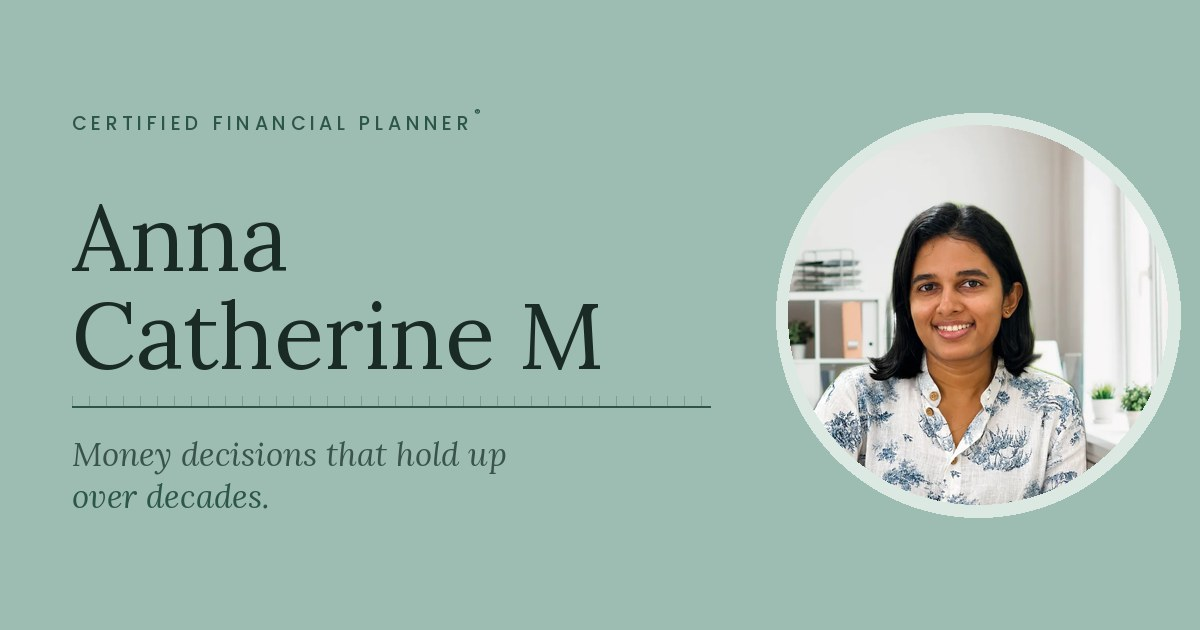
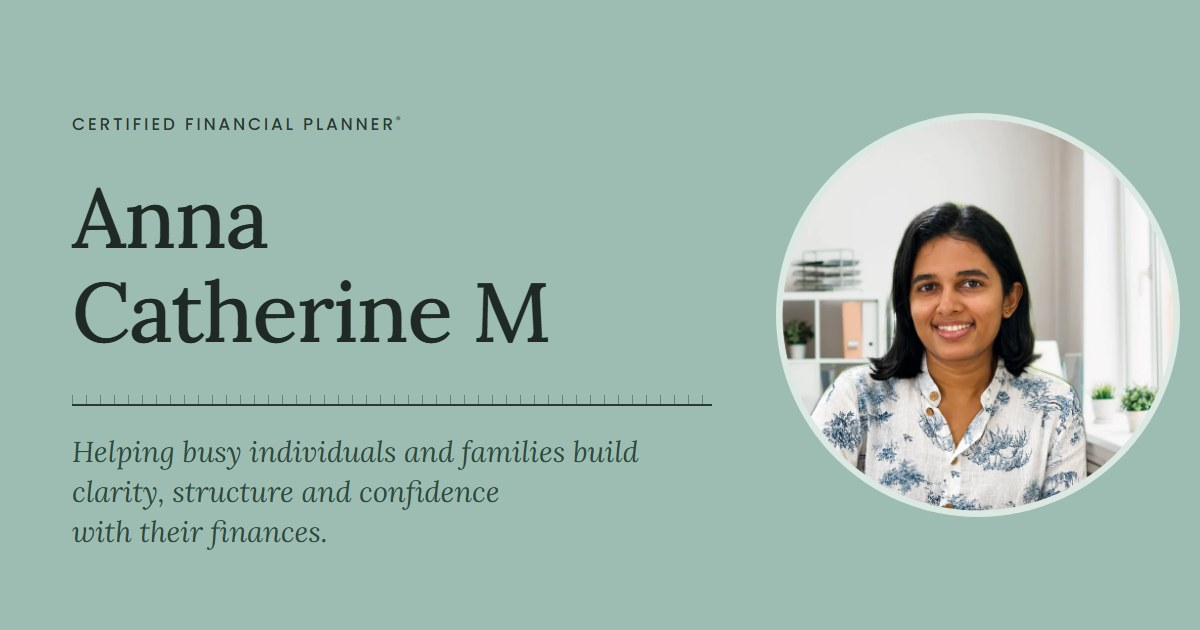
Share card and descriptions use the new tagline

diff --git a/index.html b/index.html
@@ -13,17 +13,17 @@
 <meta name="geo.placename" content="Kochi, Kerala">
 <meta property="og:locale" content="en_IN">
 <meta property="og:title" content="Anna Catherine M, Certified Financial Planner in Kochi">
-<meta property="og:description" content="Certified Financial Planner in Kochi, Kerala, working with salaried professionals and families. Financial planning for the life you want to live.">
+<meta property="og:description" content="Certified Financial Planner in Kochi, Kerala. Helping busy individuals and families build clarity, structure and confidence with their finances.">
 <meta property="og:type" content="profile">
 <meta property="og:url" content="https://annacatherinem.in/">
-<meta property="og:image" content="https://annacatherinem.in/preview-card.jpg?v=3">
+<meta property="og:image" content="https://annacatherinem.in/preview-card.jpg?v=4">
 <meta property="og:image:width" content="1200">
 <meta property="og:image:height" content="630">
 <meta property="og:site_name" content="Anna Catherine M">
 <meta name="twitter:card" content="summary_large_image">
 <meta name="twitter:title" content="Anna Catherine M, Certified Financial Planner in Kochi">
-<meta name="twitter:description" content="Comprehensive financial planning across investments, insurance, retirement, tax and cash flow.">
-<meta name="twitter:image" content="https://annacatherinem.in/preview-card.jpg?v=3">
+<meta name="twitter:description" content="Helping busy individuals and families build clarity, structure and confidence with their finances.">
+<meta name="twitter:image" content="https://annacatherinem.in/preview-card.jpg?v=4">
 <link rel="canonical" href="https://annacatherinem.in/">
 <script type="application/ld+json">
 {
